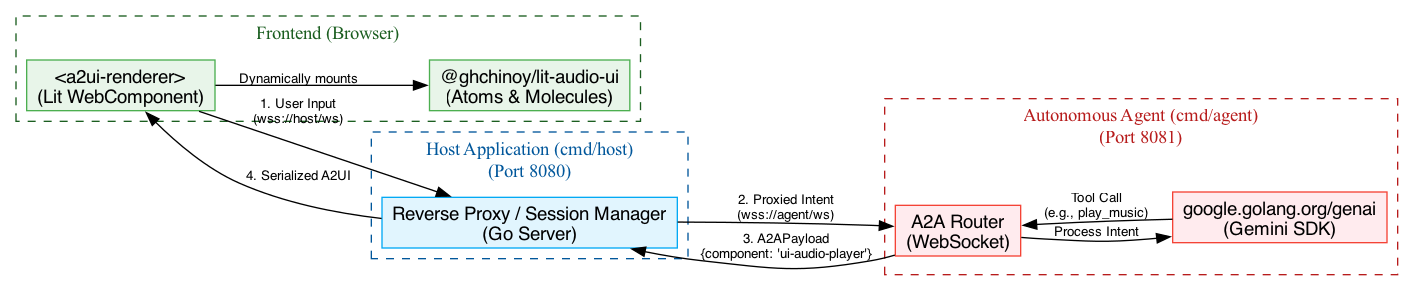
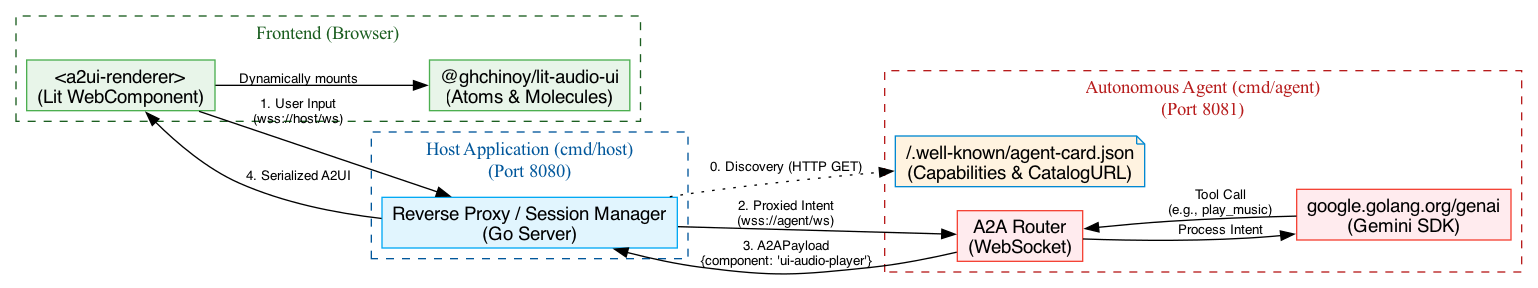
docs(samples): update a2a architecture diagram and docs with agent card discovery

diff --git a/samples/a2a-showcase/docs/architecture.md b/samples/a2a-showcase/docs/architecture.md
@@ -46,6 +46,11 @@ Object.assign(el, payload.props);
 this.renderRoot.appendChild(el);
 ```
 
+### 4. Agent Discovery & A2UI Catalogs
+In the A2A ecosystem, a Host must discover an Agent and learn what UI components it supports before it connects to the WebSocket. This is done via an **Agent Card**. 
+
+The Agent Card provides a JSON manifest detailing the Agent's identity, endpoints, and capabilities. Importantly, the Agent declares its support for the A2UI extension and points to the `catalogUrl` (e.g., `a2ui_v0.8_catalog.json`) that maps the Agent's abstract UI concepts to the specific Lit components (`@ghchinoy/lit-audio-ui`) the Host needs to load. You can view the live Agent Card by clicking the **"Connected"** badge in the showcase UI and flipping the card over.
+
 ### Why "Simulated" Federation?
 In a true federated environment, `cmd/agent` would live on a completely different server, built by a different team, and registered into a global A2A directory. 
 
